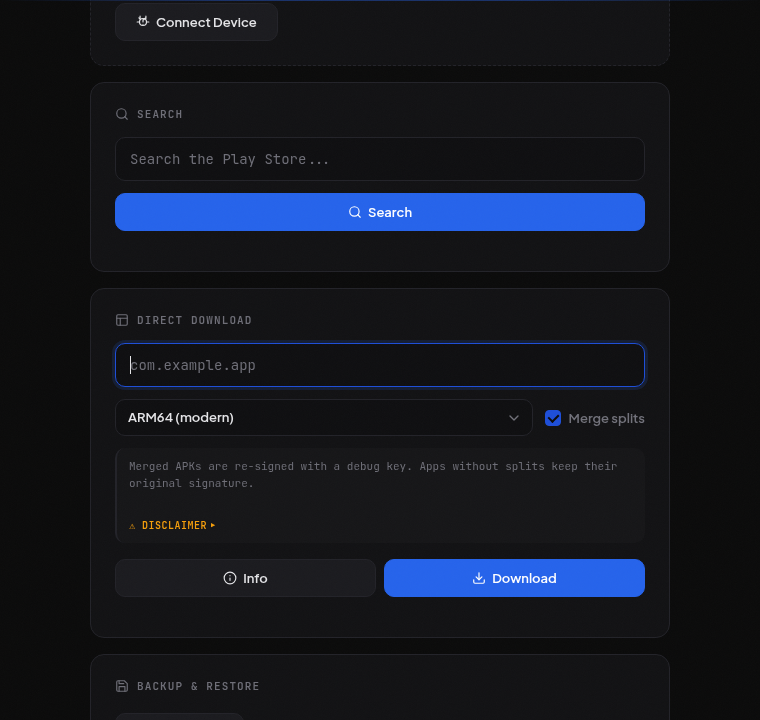
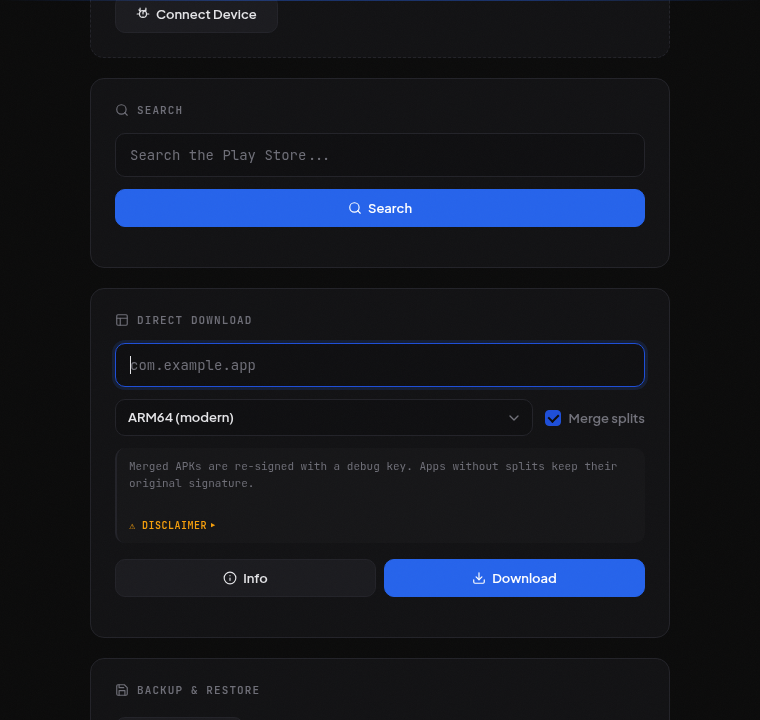
Tighter layout + more breathing room
- Wrapper max-width 1240 → 1100 at >= 960px; pages on big screens no
  longer feel stretched.
- Column gap 24 → 32, row gap inside each column 16 → 20: every card
  has a little more air around it.
- Activity Log constrained to 720px centered on wide layouts. It's
  just short log lines — full wrapper width was overkill.
- Margin between the two-column area and the Activity Log bumped
  16 → 24.

diff --git a/web_extension/src/style.css b/web_extension/src/style.css
@@ -70,30 +70,37 @@
 
     /* Two-column block. On narrow screens .cols stacks vertically with each
        column also stacked, so the visual order is:
-         col-1: Install to Device, Search
+         col-1: Authentication, Install to Device, Search
          col-2: Direct Download, Backup & Restore
        At >= 960px the two .col flexboxes sit side-by-side; each column's
        cards stack tightly (no row-alignment gap from grid). */
     .cols {
       display: flex;
       flex-direction: column;
-      gap: 16px;
-      margin-bottom: 16px;
+      gap: 20px;
+      margin-bottom: 24px;
     }
     .col {
       display: flex;
       flex-direction: column;
-      gap: 16px;
+      gap: 20px;
     }
     .col > .card { margin-bottom: 0; }
 
     @media (min-width: 960px) {
-      .wrapper { max-width: 1240px; }
+      .wrapper { max-width: 1100px; }
       .cols {
         display: grid;
         grid-template-columns: 1fr 1fr;
-        column-gap: 24px;
+        column-gap: 32px;
         align-items: start;
+      }
+      /* Activity Log is short log lines — full wrapper width is overkill.
+         Constrain to a comfortable reading width, centered. */
+      .wrapper > #log-panel {
+        max-width: 720px;
+        margin-left: auto;
+        margin-right: auto;
       }
     }
 
